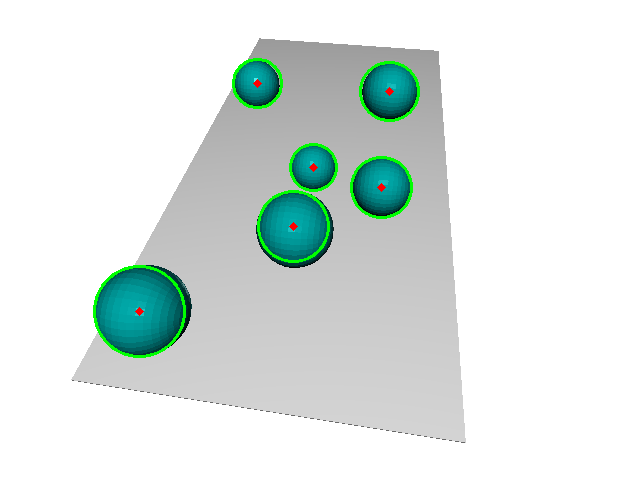
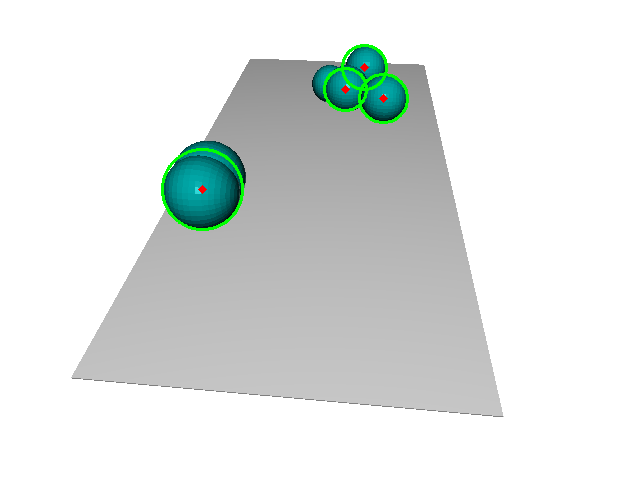
finish upto Task5

diff --git a/CWII2324-v2.py b/CWII2324-v2.py
@@ -433,31 +433,32 @@ if __name__ == '__main__':
     circles0 = detect_circles(img0)
     circles1 = detect_circles(img1)
 
-    correspondences = []
-    for circle1 in circles1[0, :]:
-        # Circle center in homogeneous coordinates
-        center1 = np.array([circle1[0], circle1[1], 1])
+    # Extract circle centers
+    centers0 = np.array([(x, y) for (x, y, r) in circles0[0, :]])
+    centers1 = np.array([(x, y) for (x, y, r) in circles1[0, :]])
 
-        # Compute the epipolar line in view0
-        epipolar_line = np.dot(F, center1)
+    # Prepare data for RANSAC
+    pairs = []
+    for i, center1 in enumerate(centers1):
+        for j, center0 in enumerate(centers0):
+            pairs.append((i, j))
 
-        # Find the circle in view0 that is closest to this line
-        best_circle0 = None
-        min_distance = float('inf')
-        for circle0 in circles0[0, :]:
-            center0 = np.array([circle0[0], circle0[1], 1])
-            distance = abs(np.dot(epipolar_line, center0)) / np.linalg.norm(epipolar_line[:2])
-            if distance < min_distance:
-                min_distance = distance
-                best_circle0 = circle0
+    # Run RANSAC to find the best correspondences
+    if len(pairs) >= 4:
+        src_pts = np.float32([centers1[i] for (i, j) in pairs]).reshape(-1, 1, 2)
+        dst_pts = np.float32([centers0[j] for (i, j) in pairs]).reshape(-1, 1, 2)
 
-        # Add to correspondences if a valid match is found
-        if best_circle0 is not None:
-            correspondences.append((circle1, best_circle0))
+        # Using RANSAC to find the homography matrix
+        H, status = cv2.findHomography(src_pts, dst_pts, cv2.RANSAC, 5.0)
 
-    # Optionally, you can print or visualize the correspondences
-    for c1, c0 in correspondences:
-        print(f"Circle in view1: {c1}, Corresponding circle in view0: {c0}")
+        # Filter out the pairs using the status output
+        good_pairs = [(pairs[i][0], pairs[i][1]) for i in range(len(pairs)) if status[i]]
+
+        # Print or process the good pairs
+        for i, j in good_pairs:
+            print(f"Circle in view1: {circles1[0, i]}, Corresponding circle in view0: {circles0[0, j]}")
+    else:
+        print("Not enough pairs for RANSAC.")
     ###################################
 
 
